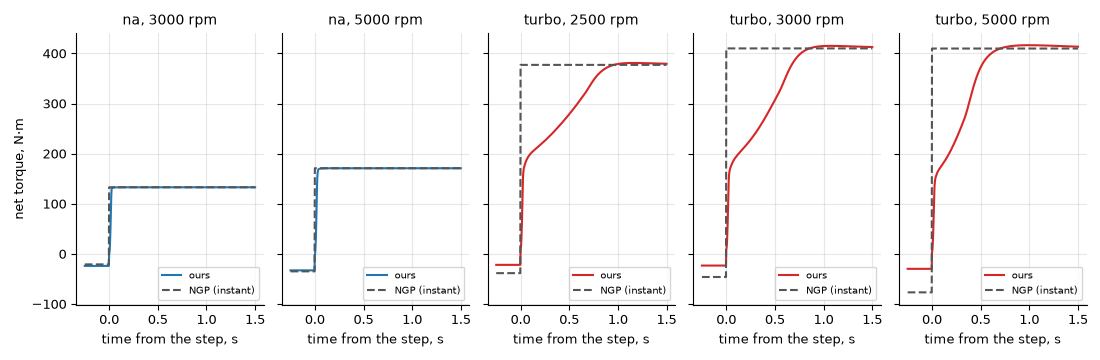
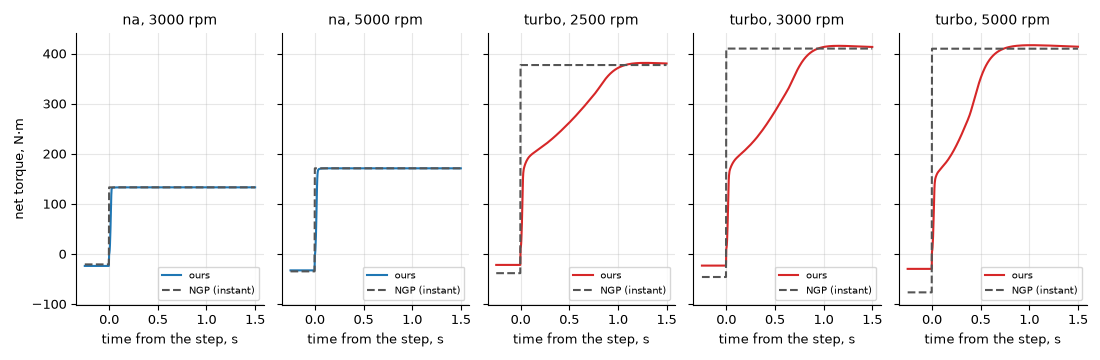
Docs: the experimental physics and tyre docs brought up to the models, engine figures regenerated

diff --git a/docs/tyre-model.md b/docs/tyre-model.md
@@ -6,11 +6,11 @@ experimental-brush` runs it on top of the engine model of [ReRBR experimental ph
 it for that session; nothing saves it).
 
 It is a brush model, the textbook physical tyre (Pacejka, *Tyre and Vehicle Dynamics*): the tread is a row of bristles
-that stick to the road at the front of the contact patch and slide at the rear. It takes the place of NGP's model of
-the contact patch on hard surfaces at every speed, fitted at load to give NGP's peak forces and cornering stiffness,
-with grip that falls as the tyre slides faster and one friction limit shared by braking and cornering. On gravel and
-snow the same tyre keeps NGP's peak grip without falling as it slides, and a locked wheel builds a berm of loose
-material ahead of it that brakes it harder than rolling, as measured on gravel.
+that stick to the road at the front of the contact patch and slide at the rear. It takes the place of NGP's model of the
+contact patch on hard surfaces at every speed, fitted at load to give NGP's peak forces and 1.3 times its cornering
+stiffness, with grip that falls as the tyre slides faster and one friction limit shared by braking and cornering. On
+gravel and snow the same tyre keeps NGP's peak grip without falling as it slides, and a locked wheel builds a berm of
+loose material ahead of it that brakes it harder than rolling, as measured on gravel.
 
 The model, its evidence, its numbers in game and the open questions are in
 [notes/tyre-model.md](../notes/tyre-model.md); the code is in `crates/rbr-tyre`.
@@ -18,16 +18,20 @@ The model, its evidence, its numbers in game and the open questions are in
 ## Force curves
 
 Each figure shows the steady force of one tyre, NGP 7's on the left (`ngp`) and the brush on the right
-(`experimental-brush`), on the same wheel: a Fiesta Rally2 front wheel with NGP's car data, at 4 kN load and 15 m/s
-(54 km/h), dry. A positive slip angle gives a positive side force; a negative slip ratio brakes, -1 is locked. The
-peaks come from NGP's grip level by design; the shapes are where the two differ. Every number below is a row of the
-tyre scorecard, with its source, in [notes/tyre-model.md](../notes/tyre-model.md#scorecard). In a drive the force
-builds over the tyre's relaxation length; these are the values it settles to. `harness/tyre_curves.py` redraws them.
+(`experimental-brush`), on the same wheel: a Fiesta Rally2 front wheel with NGP's car data, at 4 kN load and 15 m/s (54
+km/h), dry. A positive slip angle gives a positive side force; a negative slip ratio brakes, -1 is locked. The peaks
+come from NGP's grip level by design (within 1 % at 4 kN); the shapes are where the two differ. Every number below is a
+row of the tyre scorecard, with its source, in [notes/tyre-model.md](../notes/tyre-model.md#scorecard). In a drive the
+force builds over the tyre's relaxation length; these are the values it settles to. `harness/tyre_curves.py` redraws
+them.
 
 ### Tarmac
 
 ![Side force against slip angle on dry tarmac](images/tyre-model/lat-tarmac.svg)
 
+- Side force builds 1.3 times as fast with slip angle as NGP's: a cornering stiffness of 22.9 per rad of the load
+  against 17.6. A measured semi-slick has 21.9-22.3 and a slick 27.2; no rally tyre's is published, and the estimate
+  for a tarmac rally tyre is 22 to about 30.
 - Side force peaks at a slip angle of 6.5°; measured road and racing tyres peak at 4.5-8.5°, NGP's at 9.5°.
 - Past the peak the brush has lost 3 % by 10.5°, the gentlest of a measured racing tyre's 3-12 % there; NGP has lost
   0.3 %. No rally tyre has been measured: it is taken as no sharper than the slick.
@@ -35,6 +39,10 @@ builds over the tyre's relaxation length; these are the values it settles to. `h
   0.73-0.83 and racing tyres 0.80-0.90: the brush sits where the two meet, NGP at the forgiving end.
 - Braking at a slip ratio of 0.25 while cornering at 4°, the brush keeps 0.29 of its side force, above the measured
   0.23-0.27; NGP keeps 0.46.
+- Braking at half its peak braking force while cornering at 2°, the brush keeps 0.97 of its side force and NGP 0.79;
+  a measured road tyre keeps 0.99. At three quarters they keep 0.91, 0.63 and 0.93. At 5° and 8° the brush stays
+  within 0.03 of that tyre at half, and its hardest braking there is 3-7 % over that tyre's. In a deep slide the
+  brush's force points along the sliding, as that tyre's does; NGP's keeps about 1.4 times as much side force.
 
 ![Braking and driving force against slip ratio on dry tarmac](images/tyre-model/long-tarmac.svg)
 
@@ -78,3 +86,18 @@ builds over the tyre's relaxation length; these are the values it settles to. `h
   loose snow 9-18°.
 - The berm on snow is small: locked, the wheel brakes 1.05 times its rolling peak. Studded tyres on compacted snow
   lock at 1.02-1.10 times their braking at 15-20 % slip; the Fiesta Rally2 under the brush 1.05-1.09.
+
+## Beyond the curves
+
+- **Temperature.** On hard surfaces the brush runs its own tyre temperatures: half of the sliding power heats a thin
+  surface layer, which loses heat to the air, the road and the tread under it, and the grip follows NGP's rubber curve
+  at those temperatures. The half is an assumption inside the published 0.49-0.68. Cornering steadily at the limit
+  the grip settles within 1 % of NGP's; a long slide heats the surface and makes the car harder to catch. On gravel
+  and snow NGP's heat stays.
+- **Pressure.** More pressure makes the brush build force more slowly at light load, 5.7 % per 0.5 bar at 4 kN, and
+  not at all from 6.3 kN up, as measured tyres do up to about one and a half times their rated load. NGP's builds
+  force faster with pressure at every load. Every car's default is the 2.0 bar both models agree at, so this shows
+  only with a changed setup.
+- **Ice.** NGP's snow tyre is studded. On bare ice the brush gives it the grip it has on the stages' snow (0.85, an
+  assumption: road studs measure 0.21-0.30, rally studs are not published) and leaves every other tyre at NGP's 0.10,
+  where measured road tyres are at 0 °C (0.09-0.12). NGP gives every tyre the 0.10.
